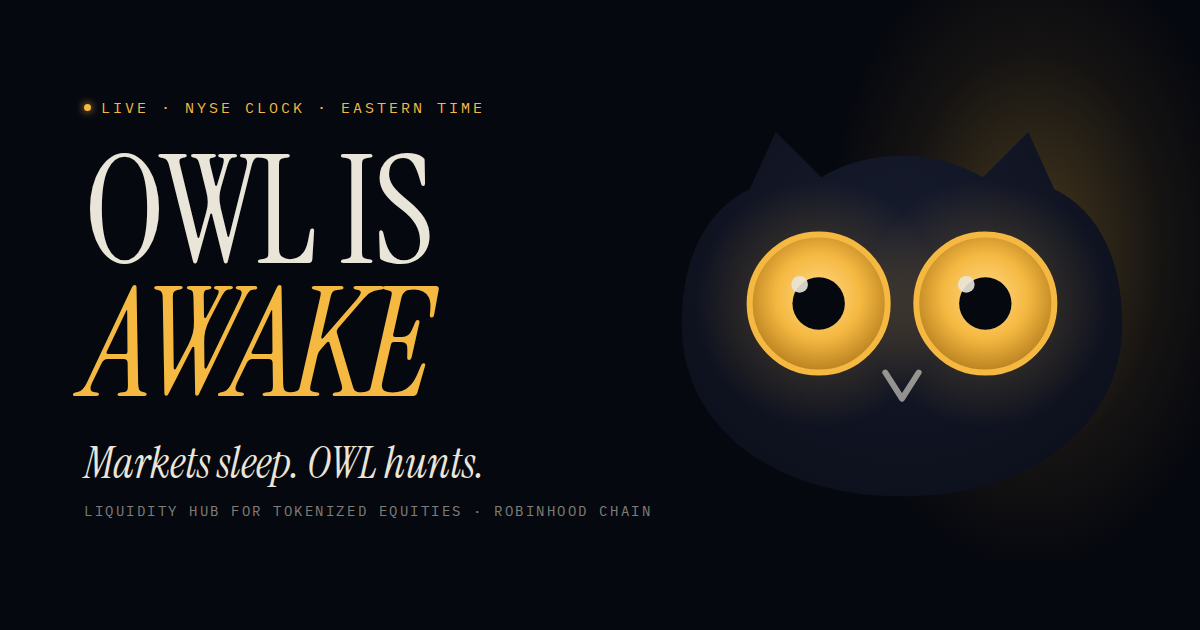
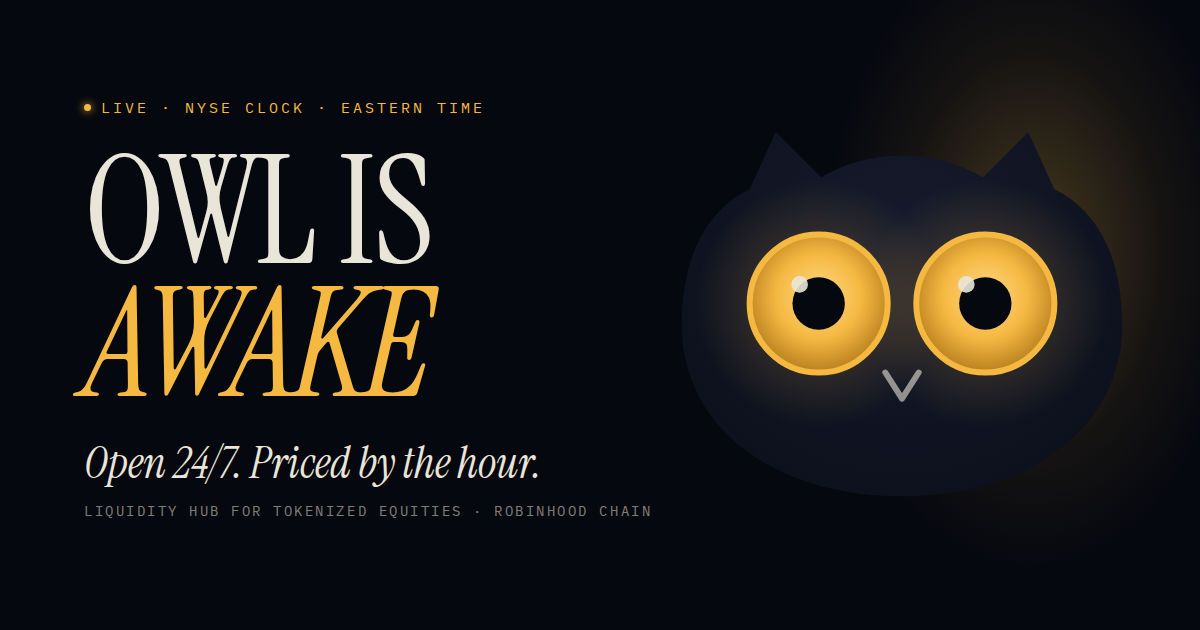
Replace the tagline with "Open 24/7. Priced by the hour."
Last intro scene, social-card image and alt text, README.

Claude-Session: https://claude.ai/code/session_01HD87XbmEyTskBCf5CMo6EW

Changed region(s): [[0.0617, 0.6937, 0.4625, 0.7841]]

diff --git a/index.html b/index.html
@@ -17,7 +17,7 @@
   <meta property="og:image" content="https://owlliquidity.com/assets/og.png">
   <meta property="og:image:width" content="1200">
   <meta property="og:image:height" content="630">
-  <meta property="og:image:alt" content="OWL IS AWAKE. Markets sleep. OWL hunts.">
+  <meta property="og:image:alt" content="OWL IS AWAKE. Open 24/7. Priced by the hour.">
   <meta name="twitter:card" content="summary_large_image">
   <meta name="twitter:title" content="OWL · Liquidity hub for tokenized equities">
   <meta name="twitter:description" content="Pool fees set from the NYSE calendar by a Uniswap v4 hook. 0.05% while the NYSE is open, up to 1.00% on weekends and holidays. Robinhood Chain.">
@@ -211,7 +211,7 @@
       <div class="scene-text">
         <p class="eyebrow"><span class="live-dot live-only" aria-hidden="true"></span><span id="eyebrow">Live · NYSE calendar · Eastern time</span></p>
         <h1 class="status" id="status" aria-live="polite" aria-atomic="true">OWL IS<br><em id="status-word">AWAKE</em></h1>
-        <p class="tagline">Markets sleep. OWL hunts.</p>
+        <p class="tagline">Open 24/7. Priced by the hour.</p>
         <p class="scene-fee mono">Fee now <b id="fee-scene">0.60%</b></p>
       </div>
       <div class="scene-art">

diff --git a/README.md b/README.md
@@ -33,7 +33,7 @@ scenes. Under `prefers-reduced-motion` the scenes stack as normal sections.
 | 2 | Every stock token is paired with OWL. A swap between two stocks routes through two OWL pools. | Ticker nodes linked to the OWL node; swaps pulse ticker → OWL → ticker (canvas) |
 | 3 | One Uniswap v4 hook sets the fee from the NYSE calendar… | The 24-hour fee dial at full size (SVG, live hand) |
 | 4 | Every fee splits 70% / 20% / 10%… | Fee particles flowing into three bins (canvas) |
-| 5 | OWL IS … · Markets sleep. OWL hunts. | Close-up owl with the live status headline (SVG) |
+| 5 | OWL IS … · Open 24/7. Priced by the hour. | Close-up owl with the live status headline (SVG) |
 
 ### Replacing scene art with illustrations
 
